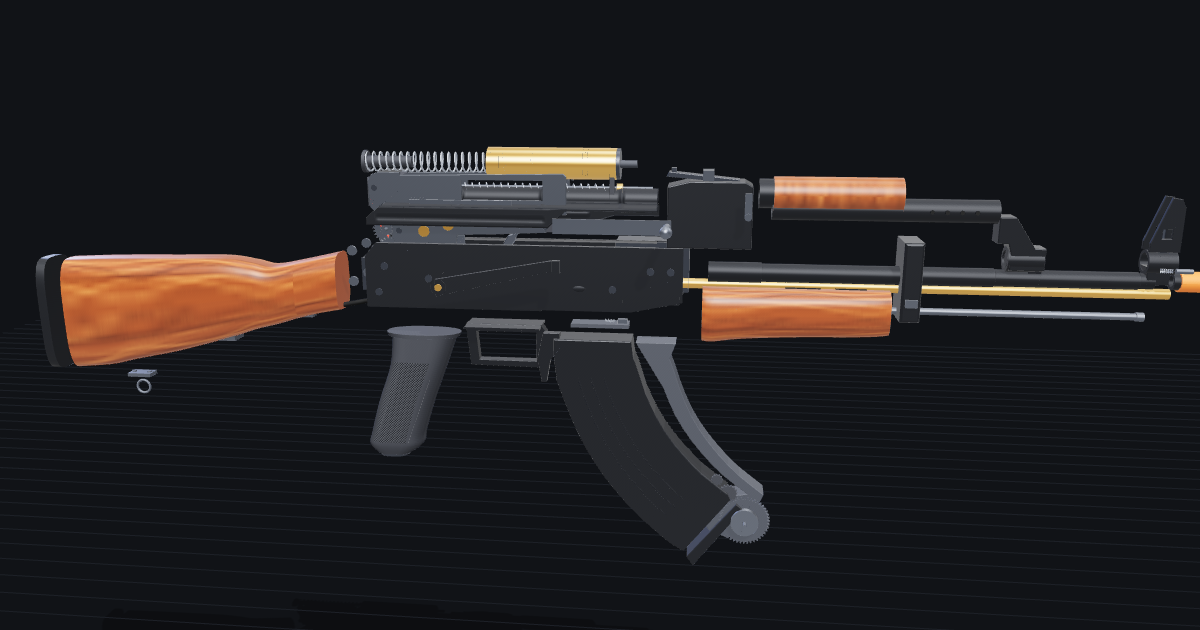
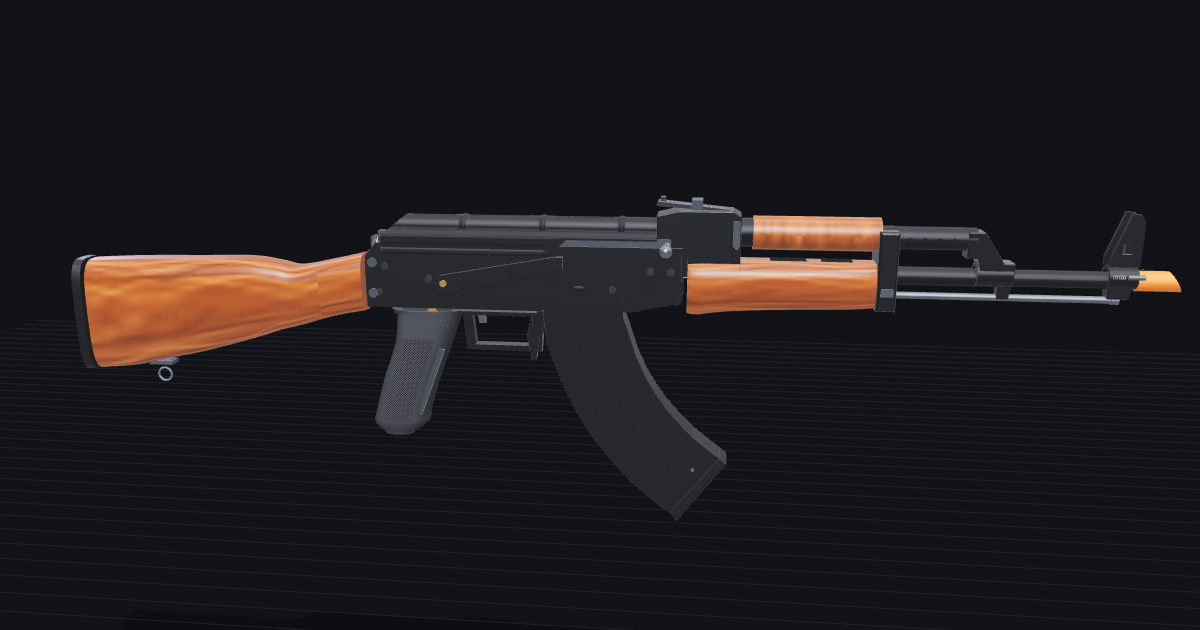
CM048M dust cover: exact rake edge, crown grooves, no parts through the rear face
Each profile column now ends on the rake plane and the rear wall is a separate
flat-shaded cap, so the rake edge is clean. Adds the short grooves along the crown
between the ribs. Receiver rails, the guide rear block and the V3 shell's rear top
corner are trimmed so nothing shows behind the raked face.

Changed region(s): [[0.0308, 0.2111, 1.0, 0.8746], [0.37, 0.4222, 0.4008, 0.4524]]

diff --git a/cm048m/index.html b/cm048m/index.html
@@ -539,7 +539,7 @@ part('receiver', 'Receiver (gun body)', 'rcv', ['1'], [0, 0, 0],
   [[at(prof(RCV_SIDE, mm(1.2), 0.3), 0, 0, RZ), 'blk'], [at(prof(RCV_SIDE, mm(1.2), 0.3), 0, 0, -RZ), 'blk'],
    [bx(X(818), X(636), Y(143) - mm(1.2), Y(143), -RZ, RZ), 'blk'],
    [bx(X(553), X(496), Y(135), Y(132), -RZ, RZ), 'blk'],
-   ...[1, -1].map(s => [bx(X(806), X(521), Y(79), Y(77), s * (RZ - mm(4)), s * RZ), 'blk']),
+   ...[1, -1].map(s => [bx(X(794), X(521), Y(79), Y(77), s * (RZ - mm(4)), s * RZ), 'blk']),
    ...[1, -1].map(s => [at(new THREE.SphereGeometry(mm(4), 16, 8).scale(1.6, 0.8, 0.35), X(597), Y(120), s * RZ), 'blk']),
    ...RIVETS.flatMap(([a, b]) => [1, -1].map(s => [cyl(mm(3.2), mm(1.4), 'z', X(a), Y(b), s * (RZ + mm(0.6)), 12), 'dark']))], { shell: true });
 part('frontTrunnion', 'Gun body connector (front trunnion)', 'rcv', ['5', '51', '52'], [40, -10, -170],
@@ -555,67 +555,79 @@ part('rearTrunnion', 'Gun stock connector (rear trunnion)', 'rcv', ['6'], [-40, 
 function akmCover() {
   const H = mm(31.5), Wh = RZ + mm(1.2), rc = mm(9.4), T = mm(0.9), top = Y(56);
   const ramp = (px, a, b) => Math.min(1, Math.max(0, (px - a) / (b - a)));
+  const bump = (px, a, b, e) => ramp(px, a, a + e) * (1 - ramp(px, b - e, b));
   // skirt bottom depth per side (0 = top), by photo px
   const botL = px => H - mm(6) * (1 - ramp(px, 565, 587));
   const botR = px => H - (H * 0.45) * (1 - ramp(px, 610, 628));
   const rib = px => [555, 635, 717].reduce((a, r) => a + mm(1) * Math.exp(-(((px - r) / 2.3) ** 2)), 0);
-  const flute = (px, u, a, b) => (u > 0.45 && u < 0.72) ? -mm(0.7) * ramp(px, a, a + 4) * (1 - ramp(px, b - 4, b)) * Math.sin((u - 0.45) / 0.27 * Math.PI) : 0;
-  // half profile, top centre outwards: [z, d, ribWeight, skirtU or -1]
+  const flute = (px, u, a, b) => (u > 0.45 && u < 0.72) ? -mm(0.7) * bump(px, a, b, 4) * Math.sin((u - 0.45) / 0.27 * Math.PI) : 0;
+  // short grooves along the crown top, one per bay between the ribs (K-Var and Apex side views)
+  const groove = px => -mm(0.8) * [[563, 625], [649, 714], [725, 773]].reduce((a, [s, e]) => a + bump(px, s, e, 3), 0);
+  // raked rear face: a plane through photo (777, 56) and (812, 85); column end x for a point at depth d
+  const RK = 35 / 29, xEnd = d => Math.min(814, 777 + d * RK);
+  // half profile, top centre outwards: [z, d, ribWeight, skirtU or -1, topWeight]
   const half = (bot) => {
     const pts = [];
-    for (let i = 0; i <= 10; i++) { const a = Math.PI / 2 * (1 - i / 10); pts.push([rc * Math.cos(a), rc - rc * Math.sin(a), 1, -1]); }
-    pts.push([rc, 0.36 * H, 1, -1]);
-    for (let i = 1; i <= 7; i++) { const t = i / 7, sm = t * t * (3 - 2 * t); pts.push([rc + (Wh - rc) * sm, 0.36 * H + 0.14 * H * t, 1 - t, -1]); }
+    for (let i = 0; i <= 20; i++) { const a = Math.PI / 2 * (1 - i / 20); pts.push([rc * Math.cos(a), rc - rc * Math.sin(a), 1, -1, Math.exp(-(((Math.PI / 2 - a) / 0.26) ** 2))]); }
+    pts.push([rc, 0.36 * H, 1, -1, 0]);
+    for (let i = 1; i <= 7; i++) { const t = i / 7, sm = t * t * (3 - 2 * t); pts.push([rc + (Wh - rc) * sm, 0.36 * H + 0.14 * H * t, 1 - t, -1, 0]); }
     const d0 = 0.5 * H, d1 = Math.max(bot, d0 + mm(1.5));
-    for (let i = 1; i <= 10; i++) pts.push([Wh, d0 + (d1 - d0) * i / 10, 0, i / 10 * (d1 - d0) / (H - d0)]);
+    for (let i = 1; i <= 10; i++) pts.push([Wh, d0 + (d1 - d0) * i / 10, 0, i / 10 * (d1 - d0) / (H - d0), 0]);
     return pts;
   };
-  const section = px => {
+  const profile = px => {
     const R = half(botR(px)), L = half(botL(px));
-    const pts = [...L.slice(1).reverse().map(([z, d, w, u]) => [-z, d, w, u, -1]), ...R.map(([z, d, w, u]) => [z, d, w, u, 1])];
-    // outward normals in (z, y = -d)
-    const n = pts.map((p, i) => { const a = pts[Math.max(0, i - 1)], b = pts[Math.min(pts.length - 1, i + 1)];
+    const pts = [...L.slice(1).reverse().map(([z, ...r]) => [-z, ...r, -1]), ...R.map(([z, ...r]) => [z, ...r, 1])];
+    return pts.map((p, i) => {   // outward normal in (z, y = -d)
+      const a = pts[Math.max(0, i - 1)], b = pts[Math.min(pts.length - 1, i + 1)];
       let nz = -(b[1] - a[1]), ny = -(b[0] - a[0]); const l = Math.hypot(nz, ny) || 1; nz /= l; ny /= l;
-      if (nz * p[0] + ny * (0.6 * H - p[1]) < 0) { nz = -nz; ny = -ny; } return [nz, ny]; });
-    const rake = Math.max(0, (px - 777) / 35 * mm(29 * S));
-    return pts.map((p, i) => {
-      const [z, d, w, u, side] = p, [nz, ny] = n[i];
-      const off = rib(px) * w + (u >= 0 ? flute(px, u, side < 0 ? 590 : 630, 805) : 0);
-      const o = [z + nz * off, d - ny * off], iN = [o[0] - nz * T, o[1] + ny * T];
-      const cl = q => [q[0], Math.max(q[1], rake)];
-      return [cl(o), cl(iN)];
+      if (nz * p[0] + ny * (0.6 * H - p[1]) < 0) { nz = -nz; ny = -ny; }
+      return { z: p[0], d: p[1], w: p[2], u: p[3], tw: p[4], side: p[5], nz, ny };
     });
   };
-  const pos = [], idx = [], xs = [];
-  for (let px = 519; px <= 814.001; px += px < 775 ? 1 : 0.2) xs.push(Math.min(px, 814));
-  const secs = xs.map(section), N = secs[0].length;
+  const outer = (q, px, inner) => {
+    const off = rib(px) * q.w + groove(px) * q.tw + (q.u >= 0 ? flute(px, q.u, q.side < 0 ? 590 : 630, 805) : 0) - (inner ? T : 0);
+    return [q.z + q.nz * off, q.d - q.ny * off];
+  };
+  // every profile column runs from the front edge to where it meets the rake (or the rear edge), so the rake edge is exact
+  const M0 = 258, M1 = 70, prof0 = profile(519), N = prof0.length;
+  const colX = (i, k, inner) => {
+    const q = prof0[i], dEnd = inner ? q.d + q.ny * T : q.d, xe = xEnd(Math.max(0, dEnd));
+    return k <= M0 ? 519 + (777 - 519) * k / M0 : 777 + (xe - 777) * (k - M0) / M1;
+  };
+  const pos = [], idx = [], K = M0 + M1 + 1;
   const vid = (k, i, inner) => (k * N + i) * 2 + inner;
-  xs.forEach((px, k) => secs[k].forEach(([o, iN]) => { pos.push(X(px), top - o[1], o[0], X(px), top - iN[1], iN[0]); }));
-  for (let k = 0; k < xs.length - 1; k++) for (let i = 0; i < N - 1; i++) {
+  const cache = new Map(), profAt = px => { const key = px.toFixed(3); if (!cache.has(key)) cache.set(key, profile(px)); return cache.get(key); };
+  for (let k = 0; k < K; k++) for (let i = 0; i < N; i++) for (const inner of [0, 1]) {
+    const px = colX(i, k, inner), [z, d] = outer(profAt(px)[i], px, inner);
+    pos.push(X(px), top - d, z);
+  }
+  for (let k = 0; k < K - 1; k++) for (let i = 0; i < N - 1; i++) {
     const a = vid(k, i, 0), b = vid(k, i + 1, 0), c = vid(k + 1, i, 0), d = vid(k + 1, i + 1, 0);
     idx.push(a, b, c, b, d, c); idx.push(a + 1, c + 1, b + 1, b + 1, c + 1, d + 1);
   }
-  for (let k = 0; k < xs.length - 1; k++) for (const i of [0, N - 1]) {      // bottom edges of the skirts
+  for (let k = 0; k < K - 1; k++) for (const i of [0, N - 1]) {      // bottom edges of the skirts
     const a = vid(k, i, 0), b = vid(k, i, 1), c = vid(k + 1, i, 0), d = vid(k + 1, i, 1); idx.push(a, b, c, b, d, c);
   }
   for (let i = 0; i < N - 1; i++) { const a = vid(0, i, 0), b = vid(0, i + 1, 0); idx.push(a, a + 1, b, b, a + 1, b + 1); }   // open front rim
-  const last = xs.length - 1, base = pos.length / 3;                          // closed rear wall
-  const ctr = secs[last].reduce((m, [o]) => [m[0] + o[0] / N, m[1] + o[1] / N], [0, 0]);
-  pos.push(X(xs[last]), top - ctr[1], ctr[0]);
-  for (let i = 0; i < N - 1; i++) idx.push(base, vid(last, i, 0), vid(last, i + 1, 0));
-  const g = new THREE.BufferGeometry();
-  g.setAttribute('position', new THREE.Float32BufferAttribute(pos, 3));
-  g.setIndex(idx); g.computeVertexNormals();
-  return g;
+  const shell = new THREE.BufferGeometry();
+  shell.setAttribute('position', new THREE.Float32BufferAttribute(pos, 3));
+  shell.setIndex(idx); shell.computeVertexNormals();
+  // rear wall: the outer column ends, triangulated in (z, d) and flat shaded so the rake edge stays crisp
+  const ends = Array.from({ length: N }, (_, i) => pos.slice(vid(K - 1, i, 0) * 3, vid(K - 1, i, 0) * 3 + 3));
+  const tris = THREE.ShapeUtils.triangulateShape(ends.map(([, y, z]) => new THREE.Vector2(z, y)), []);
+  const cp = []; for (const t of tris) for (const j of t) cp.push(...ends[j]);
+  const cap = new THREE.BufferGeometry(); cap.setAttribute('position', new THREE.Float32BufferAttribute(cp, 3)); cap.computeVertexNormals();
+  return [shell, cap];
 }
 part('dustCover', 'Gun body cover (dust cover) + latch, screw', 'rcv', ['65', '63', '64'], [0, 170, 0],
   'Stamped steel AKM dust cover (65): half-round crown over the recoil spring, flared shoulders and straight skirts, three stiffening ribs across the crown and a long flute on each skirt. The rear end is raked with a square window for the recoil spring guide button; the right skirt stops short at the front to clear the cocking lever. Real AKM cover is about 240 x 39mm. Held by the recoil spring guide button at the rear. On the airsoft gun it hides the hop-up adjuster. Small part 63 with screw 64 is the latch inside it.',
-  [[akmCover(), 'blk']], { shell: true });
+  akmCover().map(g => [g, 'blk']), { shell: true });
 part('recoilGuide', 'Lever cock (recoil spring guide) + spring, bushing', 'rcv', ['62', '60', '61'], [0, 235, 0],
   'Recoil spring guide (62) with its spring (60) and bushing (61). On the real rifle it returns the bolt carrier; here it only springs the cocking lever back and locks the dust cover through the rear button.',
   [[cyl(mm(1.6), X(525) - X(786), 'x', (X(525) + X(786)) / 2, Y(70), 0, 10), 'steel'],
    [spring(mm(3.2), mm(0.5), X(560) - X(783), 30, 'x', X(783), Y(70), 0), 'spring'],
-   [cyl(mm(4), mm(3), 'x', X(785), Y(70), 0, 16), 'steel'], [bx(X(795), X(785), Y(80), Y(70), -mm(4), mm(4)), 'steel'],
+   [cyl(mm(4), mm(3), 'x', X(785), Y(70), 0, 16), 'steel'], [bx(X(793), X(785), Y(80), Y(72.5), -mm(4), mm(4)), 'steel'],
    [bx(X(803), X(794), Y(84), Y(78), -mm(3.3), mm(3.3)), 'steel'], [bx(X(809), X(802), Y(84), Y(76.5), -mm(3.3), mm(3.3)), 'steel'],
    [cyl(mm(4), mm(5), 'x', X(558), Y(70), 0, 16), 'brass']]);
 part('cockLever', 'Cocking lever (charging handle)', 'rcv', ['59'], [0, 120, 60],
@@ -664,14 +676,14 @@ part('innerBarrel', 'Inner barrel', 'hop', ['40'], [60, -60, 0],
 const GX = xm => X(610) + mm(xm - 99.6), GY = ym => mm(ym - 24.8);
 const G = pts => pts.map(([a, b]) => [GX(a), GY(b)]);
 const GBZ = mm(12.5);
-const GB_OUT = G([[-67, 36], [-64, 41], [-58, 43], [-40, 43], [-40, 40.5], [97, 43], [99, 41], [99, 10], [82, 10], [82, -5], [40, -7], [7, -8], [6, -15], [-1, -25],
+const GB_OUT = G([[-67, 28], [-63, 33], [-56, 39], [-48, 42], [-40, 43], [-40, 40.5], [97, 43], [99, 41], [99, 10], [82, 10], [82, -5], [40, -7], [7, -8], [6, -15], [-1, -25],
   [-5, -40], [-10, -45], [-31, -36], [-37, -31], [-42, -24], [-48, -12], [-48, 10], [-62, 10], [-66, 14]]);
 const GB_WIN = G([[12, 21], [80, 21], [80, 37.5], [12, 37.5]]).reverse();
 const BUSH = [[0, 0], [-21, -5.7], [-16.6, -25.8]];
 part('gearbox', 'Gear box (Version 3 shell + combine plate)', 'gbx', ['7'], [0, 360, 0],
   'CYMA Version 3 gearbox (7): two metal shell halves (7mm bushings) held by screws and the slide-on top combine plate; the spring guide seats at the rear, the cylinder window is on top. Outline and bushing positions are traced from a flat SHS V3 shell photo scaled to 167mm long (Retro Arms lists 167 x 86 x 25mm): sector gear 21.8mm from the spur, spur 20.5mm from the bevel, cylinder axis 24.8mm above the sector axle. The manual gives no internal part numbers, so the internals use generic V3 names.',
   [[at(prof(GB_OUT, mm(2.2), 0.4, [GB_WIN]), 0, 0, GBZ - mm(1.1)), 'zinc'], [at(prof(GB_OUT, mm(2.2), 0.4, [GB_WIN]), 0, 0, -GBZ + mm(1.1)), 'zinc'],
-   [bx(GX(-40), GX(-58), GY(40.5), GY(43.5), -GBZ, GBZ), 'zinc'],
+   [bx(GX(-40), GX(-54), GY(40), GY(42.5), -GBZ, GBZ), 'zinc'],
    [cyl(mm(2.2), mm(2), 'z', GX(101.3), GY(40.1), 0, 10), 'zinc'],
    ...BUSH.flatMap(([a, b]) => [1, -1].map(s => [cyl(mm(4.8), mm(1.4), 'z', GX(a), GY(b), s * (GBZ + mm(0.3)), 20), 'brass'])),
    ...[[-9.9, -41.5], [-1.7, -33.4], [1.5, 17.4], [-42.4, -5.7], [82, 0], [-62, 30]].flatMap(([a, b]) => [1, -1].map(s => [cyl(mm(2.6), mm(1), 'z', GX(a), GY(b), s * (GBZ + mm(0.2)), 12), 'dark']))], { shell: true });
